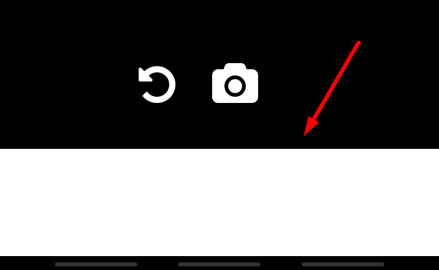
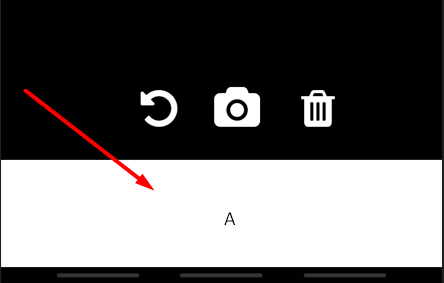
Atualizacao de fotos manual

diff --git a/App.js b/App.js
@@ -8,6 +8,7 @@ import Mao from './assets/mao.jpg'
 import Switch from './assets/switch.png'
 import Texto from './assets/retornotexto.png'
 import TirarFoto from './assets/tirarfoto.png'
+import Lixeira from './assets/lixeira.png'
 import 'whatwg-fetch'
 
 export default function App(){
@@ -230,7 +231,7 @@ export default function App(){
                  <Image source={Texto} style={styles.imagemTutorial}/> 
                 <Text style={styles.subTitulo}>LIMPAR TEXTO</Text>
                 <Text style={styles.paragrafo}>Também é possível limpar o campo de texto pressionando o botão que está localizado na parte inferior da tela.</Text>
-                 <Image source={Texto} style={styles.imagemTutorial}/> 
+                 <Image source={Lixeira} style={styles.imagemTutorial}/> 
               </View>              
             </View>  
             <View style={styles.cabecalho}>
